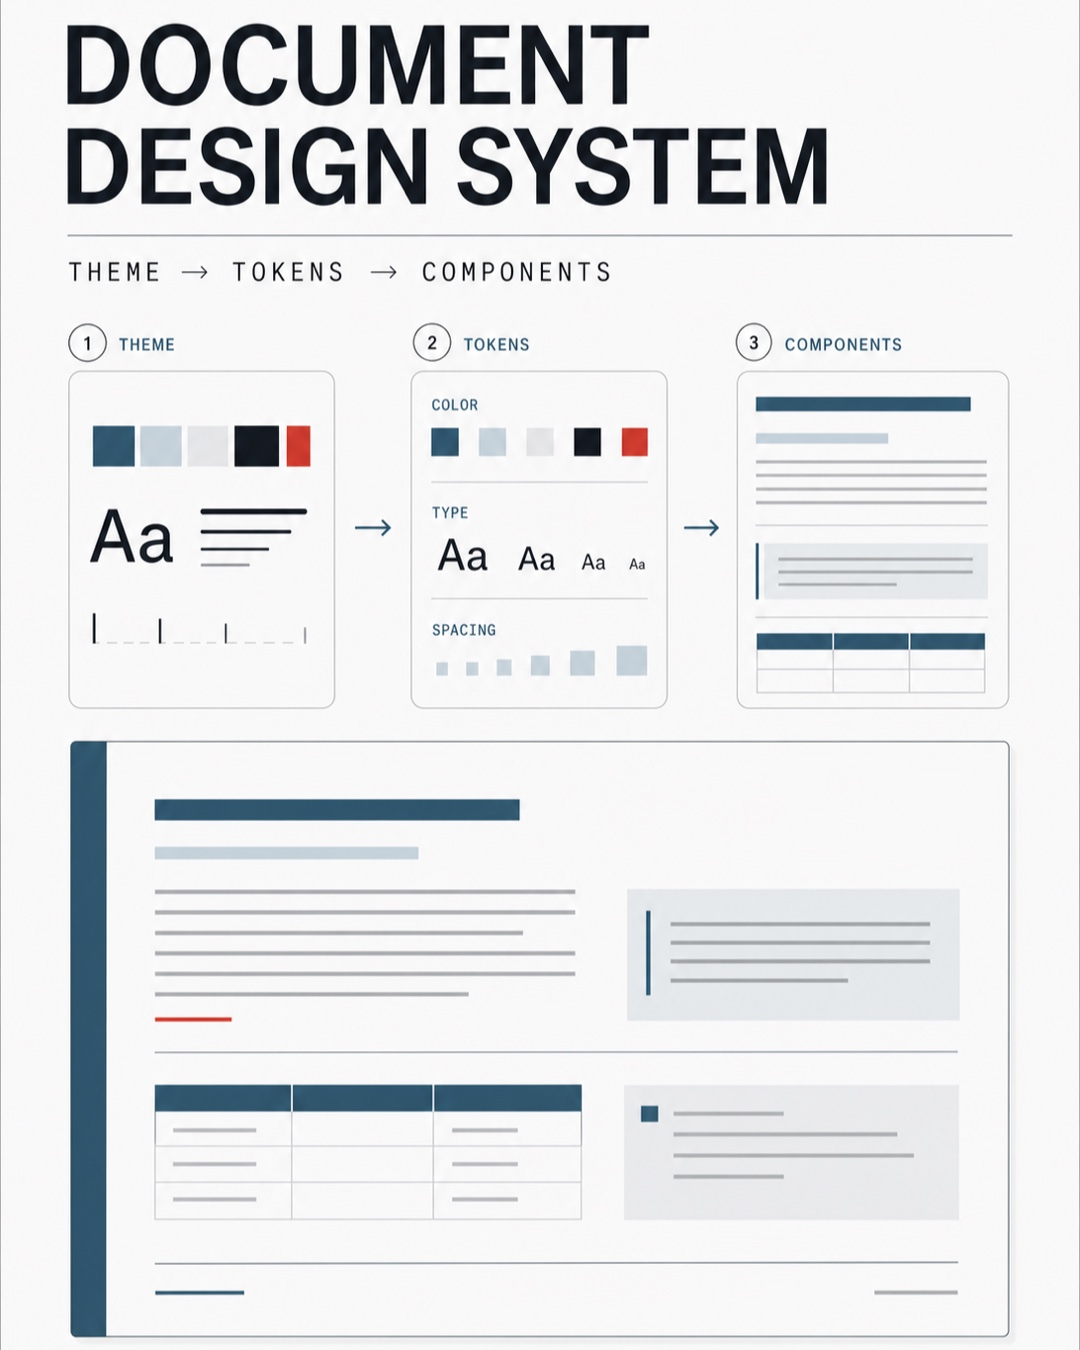
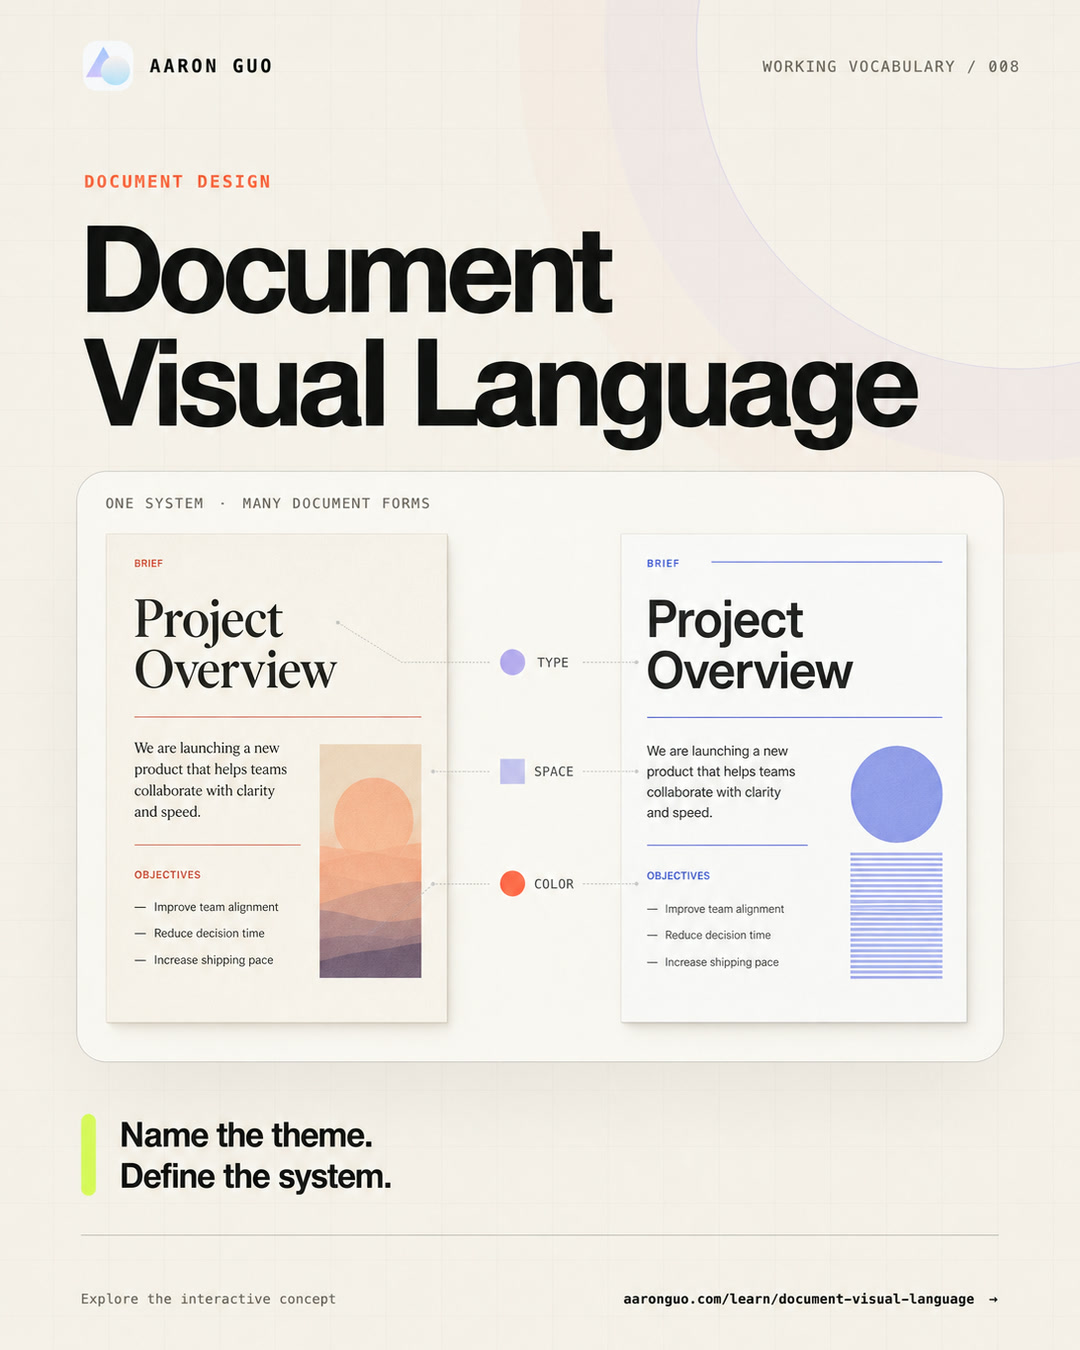
feat(pattern-atlas): upgrade document visual language cover

diff --git a/src/content/concepts/document-visual-language/en.md b/src/content/concepts/document-visual-language/en.md
@@ -15,9 +15,9 @@ featured: false
 translationKey: "document-visual-language"
 interaction: "document-visual-language"
 socialImage: "/learn-img/document-visual-language/og-1200x627.jpg"
-socialImageAlt: "A wide modern editorial diagram titled Document Design System, showing a theme flowing into tokens, components, and a resolved document."
+socialImageAlt: "A wide Working Vocabulary cover titled Document Visual Language, comparing the same project brief in warm editorial and cool modernist treatments through shared type, spacing, and color tokens."
 cardImage: "/learn-img/document-visual-language/card-4x5.jpg"
-cardImageAlt: "A portrait modern editorial diagram titled Document Design System, showing a theme flowing into tokens, components, and a resolved document."
+cardImageAlt: "A portrait Working Vocabulary cover titled Document Visual Language, comparing the same project brief in warm editorial and cool modernist treatments through shared type, spacing, and color tokens."
 neighbors:
   - name: "Document Purpose"
     fullName: "Document Purpose / Information Type"

diff --git a/src/content/concepts/document-visual-language/zh.md b/src/content/concepts/document-visual-language/zh.md
@@ -15,9 +15,9 @@ featured: false
 translationKey: "document-visual-language"
 interaction: "document-visual-language"
 socialImage: "/learn-img/document-visual-language/og-1200x627.jpg"
-socialImageAlt: "横版现代编辑图，标题为 Document Design System，展示主题怎样进入 Token、组件与最终文档。"
+socialImageAlt: "横版 Working Vocabulary 封面，标题为 Document Visual Language，用相同项目简报对比温暖编辑式与冷静现代主义两种呈现，并以字体、间距和颜色 Token 连接。"
 cardImage: "/learn-img/document-visual-language/card-4x5.jpg"
-cardImageAlt: "竖版现代编辑图，标题为 Document Design System，展示主题怎样进入 Token、组件与最终文档。"
+cardImageAlt: "竖版 Working Vocabulary 封面，标题为 Document Visual Language，用相同项目简报对比温暖编辑式与冷静现代主义两种呈现，并以字体、间距和颜色 Token 连接。"
 neighbors:
   - name: "Document Purpose"
     fullName: "Document Purpose / Information Type · 文档目的 / 信息类型"
